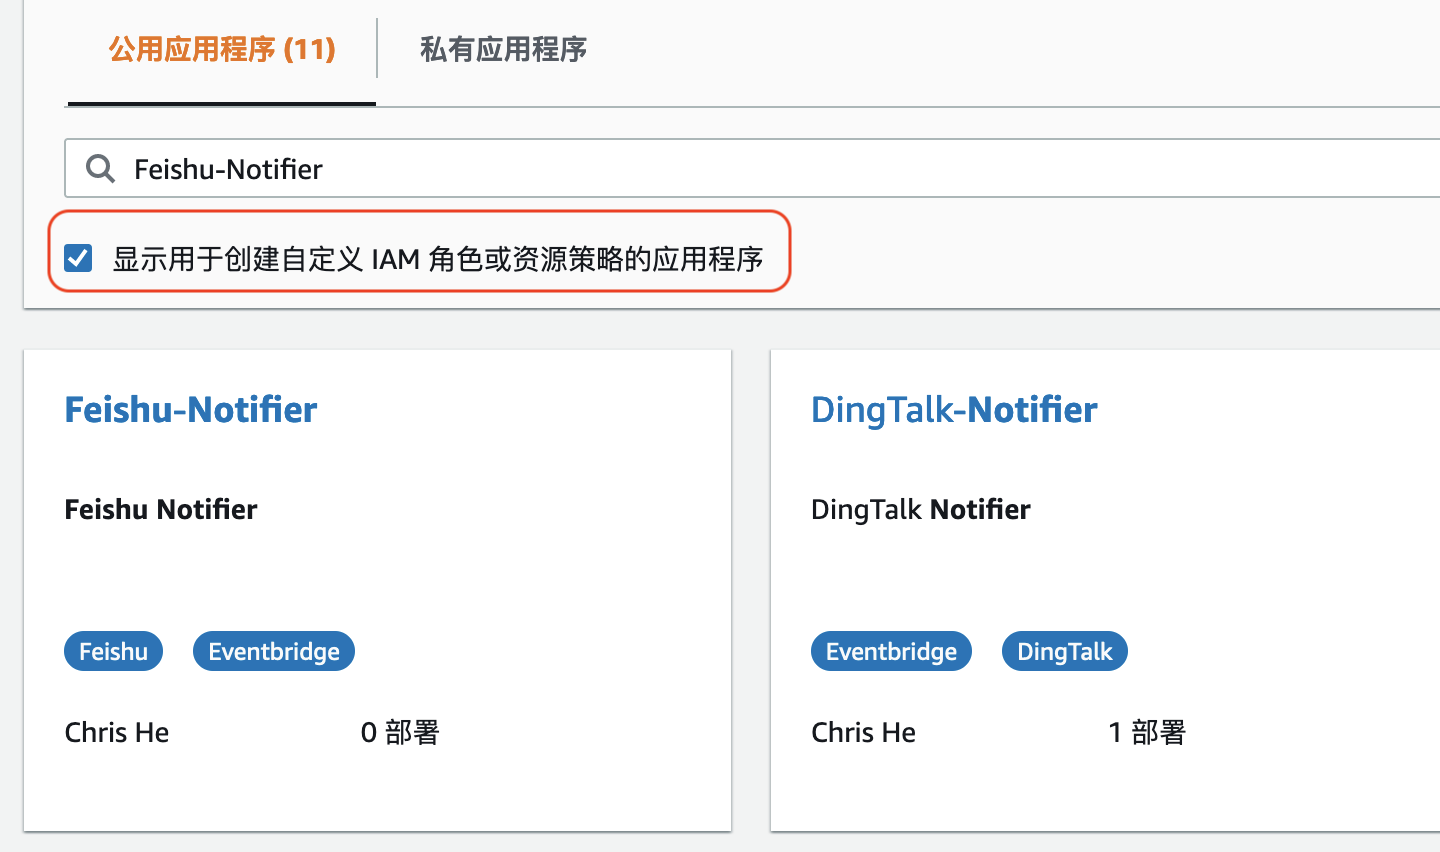
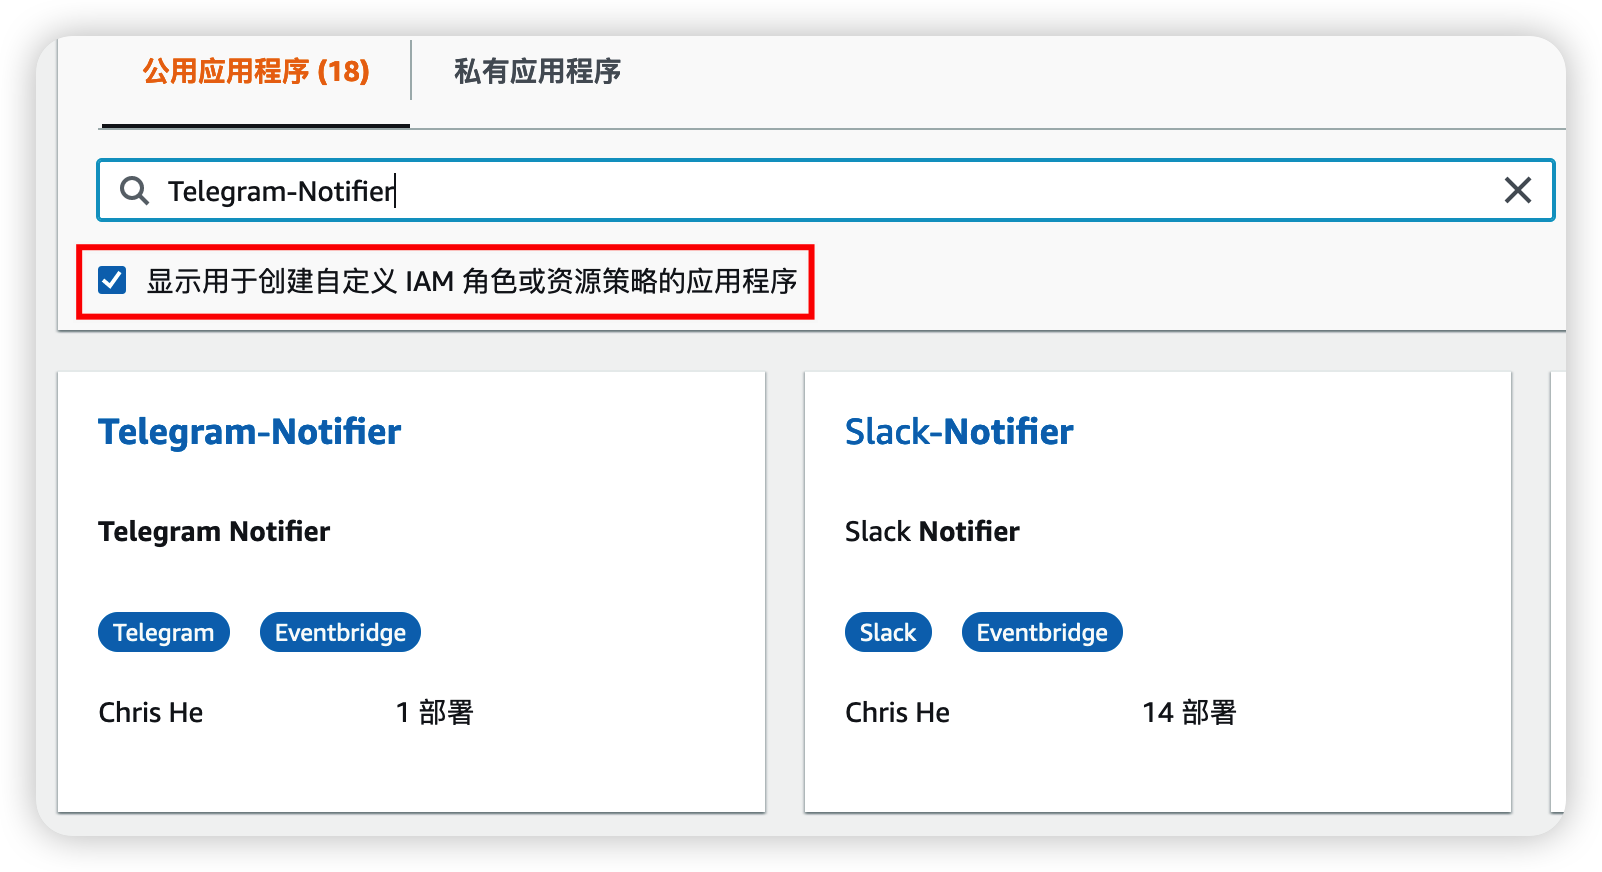
Update README.

diff --git a/README.md b/README.md
@@ -1,29 +1,33 @@
-# Feishu-Notifier 飞书告警通知
+# Telegram-Notifier Telegram 告警通知
 
 我们在使用AWS时偶尔会在管理员邮箱中收到AWS关于EC2维护信息的通知邮件，这些邮件很容易淹没在收件箱中，没有得到及时处理。很多客户希望能够更及时收到这类消息，比如从微信或是钉钉等即时通信软件收到这类消息通知。
 
-微信或钉钉等即时通信工具均提供了消息接口，第三方应用获取授权后，通过调用这些接口即可往客户端发送消息。在AWS上可以在EventBridge/Cloudwatch Event中配置事件规则，即可以触发一个Lambda运行微信/钉钉接口调用的处理逻辑。讲解这方面设计的博客和技术文章也比较多了，具体可以参考附录的一些链接。
+微信或钉钉等即时通信工具均提供了消息接口，第三方应用获取授权后，通过调用这些接口即可往客户端发送消息。在AWS上可以在EventBridge/Cloudwatch
+Event中配置事件规则，即可以触发一个Lambda运行微信/钉钉接口调用的处理逻辑。讲解这方面设计的博客和技术文章也比较多了，具体可以参考附录的一些链接。
 
-这个项目会多做一点点，提供一个无须编写代码快速部署飞书告警通知的功能。在Serverless Application Repository 中可以通过填入飞书机器人接口相关的参数，即可快速部署整套飞书告警通知的相关组件，涉及的 AWS 服务包括 EventBridge, SNS, Lambda 和 Secrets Manager 等。如下是整体的部署架构：
+这个项目会多做一点点，提供一个无须编写代码快速部署 Telegram 告警通知的功能。在Serverless Application Repository 中可以通过填入 Telegram 机器人接口相关的参数，即可快速部署整套
+Telegram 告警通知的相关组件，涉及的 AWS 服务包括 EventBridge, SNS, Lambda 和 Secrets Manager 等。如下是整体的部署架构：
 
 ![整体部署架构](images/architecture.png)
 
-为方便演示，这个应用部署时创建了两个EventBridge的Rule，一个是捕获EC2的状态变化事件（如开关机），另一个是捕获EC2健康事件（如EC2计划维护事件）。因此部署后可以通过简单的启动或关闭EC2实例来检查是否可以在飞书收到通知。
+为方便演示，这个应用部署时创建了两个EventBridge的Rule，一个是捕获EC2的状态变化事件（如开关机），另一个是捕获EC2健康事件（如EC2计划维护事件）。因此部署后可以通过简单的启动或关闭EC2实例来检查是否可以在
+Telegram 收到通知。
 
-## 飞书机器人创建与 Webhook URL
+## Telegram 机器人创建与 bot token & chat id 获取
 
-配置飞书自定义机器人，请参考[官方说明](https://www.feishu.cn/hc/zh-CN/articles/360024984973)
+配置 Telegram 自定义机器人，请参考[官方说明](https://core.telegram.org/bots#3-how-do-i-create-a-bot)
 
-获取自定义机器人的 Webhook URL，作为部署的参数
-![获取webhook](images/webhook.png)
+通过机器人发送消息至个人或群组的[中文参考](https://zhuanlan.zhihu.com/p/146062288)
+
+获取群组 chat id 的[中文参考](https://cloud.tencent.com/developer/article/1948136)
 
 ## 在 Serverless Application Repository 中部署此应用
 
-可以在 SAR 中搜索 `Feishu-notifier` 查到本应用（注意因为本项目会创建 EventBridge 到 SNS Publish 权限，所以按下图进行勾选。
+可以在 SAR 中搜索 `Telegram-notifier` 查到本应用（注意因为本项目会创建 EventBridge 到 SNS Publish 权限，所以按下图进行勾选。
 
 ![查找](images/search_sar.png)
 
-部署应用时填入自定义机器人的整个 Webhook URL
+部署应用时填入 bot token & chat id
 
 ![部署](images/deployment.png)
 
@@ -35,15 +39,13 @@
 
 ## 致谢
 
-本项目基于 Niko Feng 企业微信对接[项目](https://github.com/nikosheng/wechat-lambda-layer-sam) 与 Randy Lin SAR部署[项目](https://github.com/linjungz/wechat-notifier.git) 的基础上修改飞书对接实现及部署模板完成。在此对 Niko 与 Randy 表示感谢！
+本项目基于 Niko Feng 企业微信对接[项目](https://github.com/nikosheng/wechat-lambda-layer-sam) 与 Randy Lin
+SAR部署[项目](https://github.com/linjungz/wechat-notifier.git) 的基础上修改 Telegram 对接实现及部署模板完成。在此对 Niko 与 Randy 表示感谢！
 
 ## 更新历史
 
-2022-02-18:
-飞书机器人纯文本警告推送功能实现。
-
-2022-02-20:
-修改 Secrets Manager 中存储 security token 为存储整个 Webhook URL。
+2022-10-02:
+Telegram 机器人纯文本警告推送功能实现。
 
 ## 附录
 

diff --git a/README_sar.md b/README_sar.md
@@ -1,13 +1,13 @@
-# Feishu-Notifier 飞书告警通知
+# Telegram-Notifier Telegram 告警通知
 
 我们在使用AWS时偶尔会在管理员邮箱中收到AWS关于EC2维护信息的通知邮件，这些邮件很容易淹没在收件箱中，没有得到及时处理。很多客户希望能够更及时收到这类消息，比如从微信或是钉钉等即时通信软件收到这类消息通知。
 
 微信或钉钉等即时通信工具均提供了消息接口，第三方应用获取授权后，通过调用这些接口即可往客户端发送消息。在AWS上可以在EventBridge/Cloudwatch Event中配置事件规则，即可以触发一个Lambda运行微信/钉钉接口调用的处理逻辑。讲解这方面设计的博客和技术文章也比较多了，具体可以参考附录的一些链接。
 
-这个项目会多做一点点，提供一个无须编写代码快速部署飞书告警通知的功能。在Serverless Application Repository 中可以通过填入飞书机器人接口相关的参数，即可快速部署整套飞书告警通知的相关组件，涉及的 AWS 服务包括 EventBridge, SNS, Lambda 和 Secrets Manager 等。如下是整体的部署架构：
+这个项目会多做一点点，提供一个无须编写代码快速部署飞书告警通知的功能。在Serverless Application Repository 中可以通过填入 Telegram 机器人接口相关的参数，即可快速部署整套 Telegram 告警通知的相关组件，涉及的 AWS 服务包括 EventBridge, SNS, Lambda 和 Secrets Manager 等。如下是整体的部署架构：
 
-为方便演示，这个应用部署时创建了两个EventBridge的Rule，一个是捕获EC2的状态变化事件（如开关机），另一个是捕获EC2健康事件（如EC2计划维护事件）。因此部署后可以通过简单的启动或关闭EC2实例来检查是否可以在飞书收到通知。
+为方便演示，这个应用部署时创建了两个EventBridge的Rule，一个是捕获EC2的状态变化事件（如开关机），另一个是捕获EC2健康事件（如EC2计划维护事件）。因此部署后可以通过简单的启动或关闭EC2实例来检查是否可以在 Telegram 收到通知。
 
 ## 致谢
 
-本项目基于 Niko Feng 企业微信对接[项目](https://github.com/nikosheng/wechat-lambda-layer-sam) 与 Randy Lin SAR部署[项目](https://github.com/linjungz/wechat-notifier.git) 的基础上修改飞书对接实现及部署模板完成。在此对 Niko 与 Randy 表示感谢！
+本项目基于 Niko Feng 企业微信对接[项目](https://github.com/nikosheng/wechat-lambda-layer-sam) 与 Randy Lin SAR部署[项目](https://github.com/linjungz/wechat-notifier.git) 的基础上修改 Telegram 对接实现及部署模板完成。在此对 Niko 与 Randy 表示感谢！
